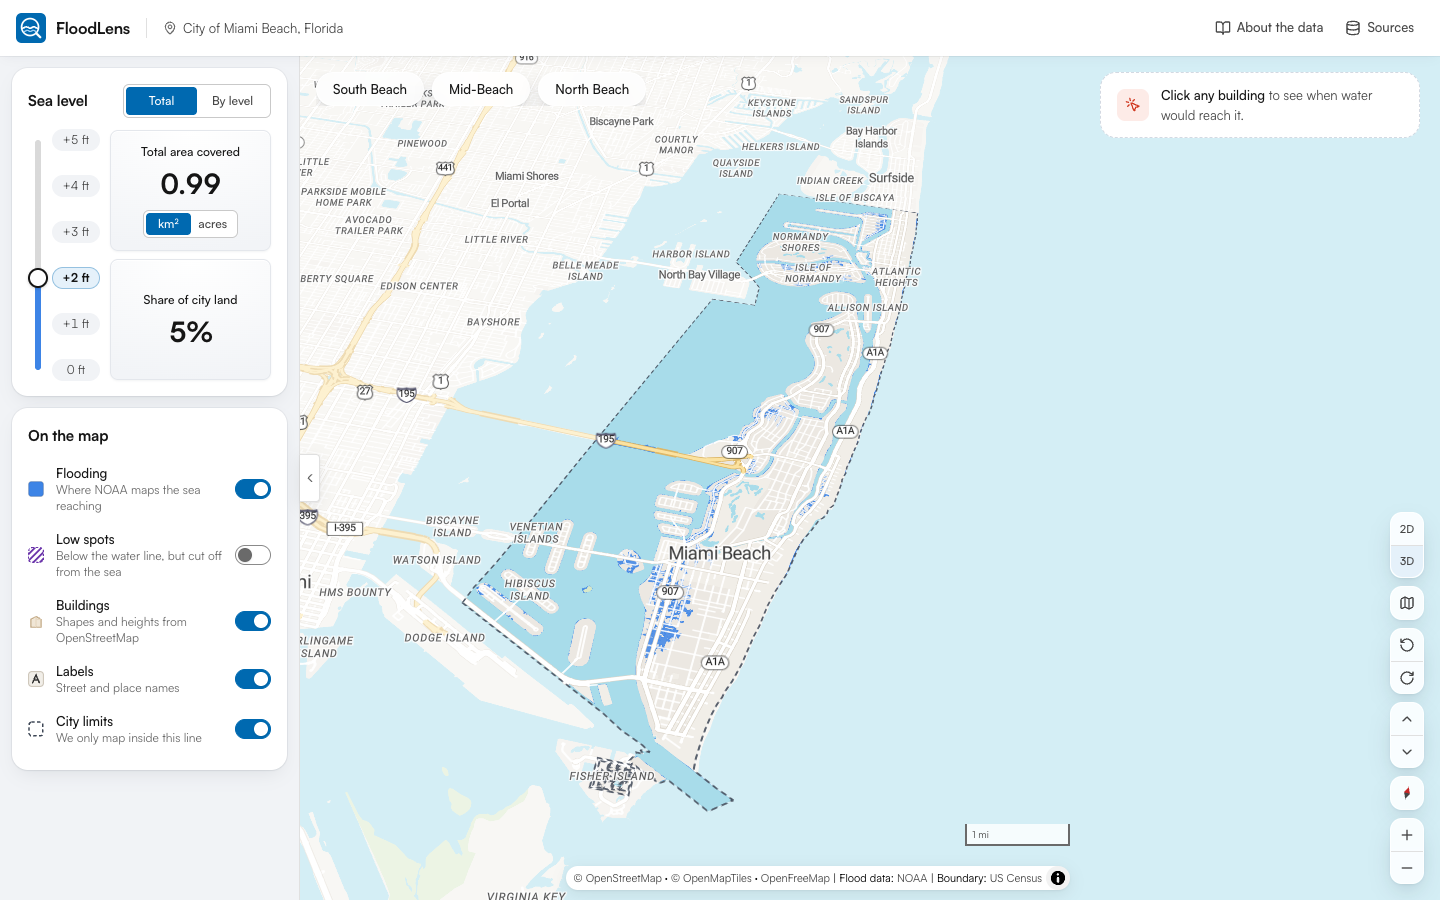
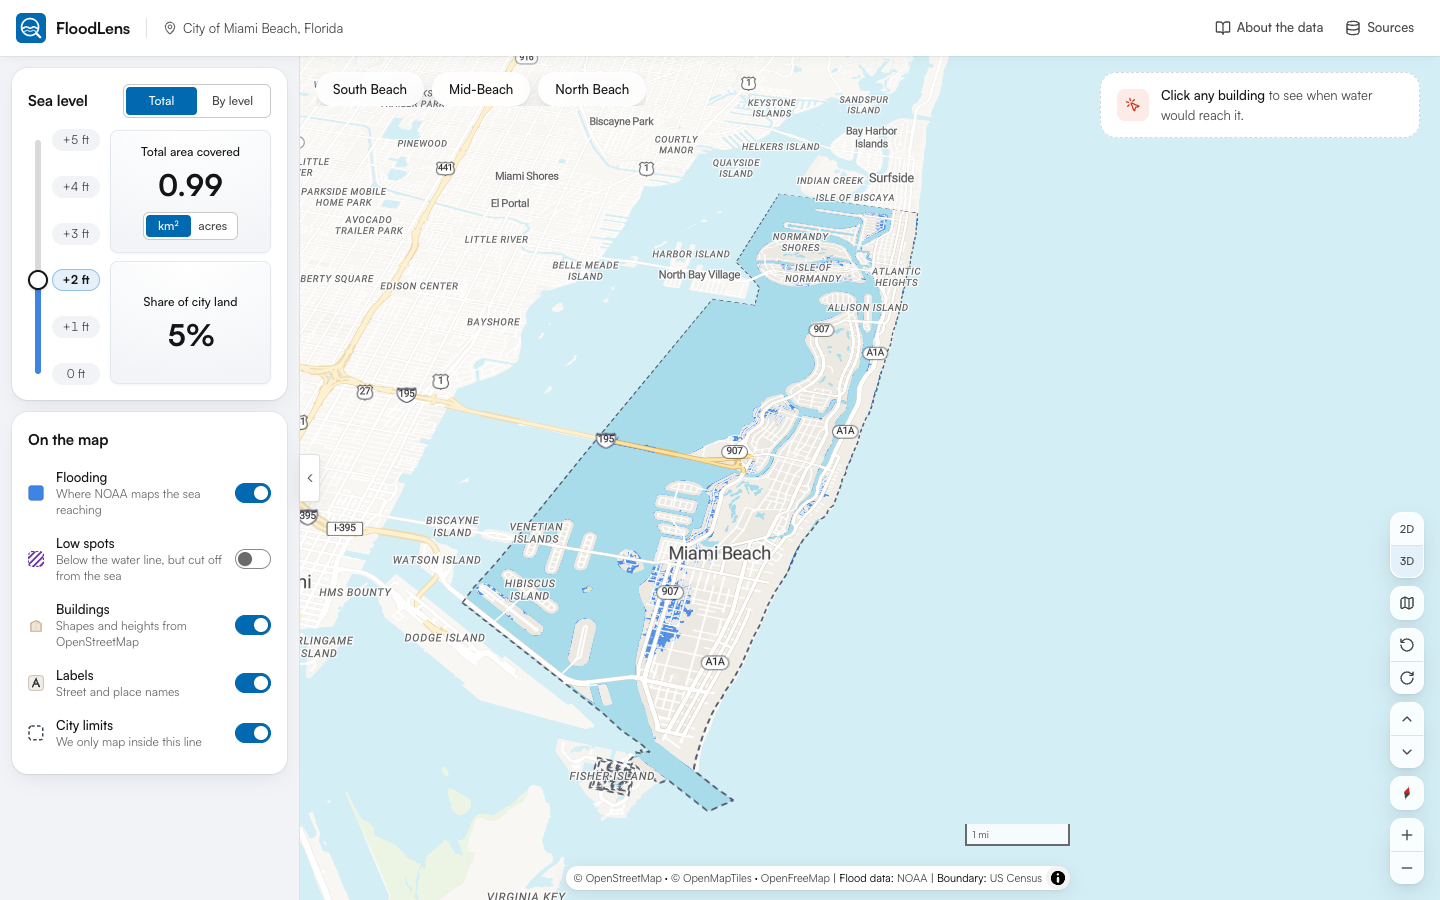
v0.45: Figures at 30 px
- The two sea-level figures at 30 px (28 before)
- Slider up to 254 px so the two boxes stay the same height
- Measured from 900 to 650 px tall: 30 px on every window 726 px
  or taller, 24 px only below; the panel fits everywhere

107 unit tests and 20 end-to-end tests pass.

diff --git a/src/components/controls/SubmergedArea.tsx b/src/components/controls/SubmergedArea.tsx
@@ -14,7 +14,7 @@ interface Props {
 }
 
 /**
- * One figure in a box, centred: label, then the number (28 px bold since v0.43; 24 px before), then
+ * One figure in a box, centred: label, then the number (30 px bold since v0.45; 28 px in v0.43–v0.44, 24 px before), then
  * anything under it. The box shares the "Soft light" surface (`.surface-soft`, v0.42) with the
  * place card's answer and facts, so the two panels read as one design (v0.41 had a pale blue
  * gradient; v0.39–v0.40 a flat grey-blue fill). These two boxes have a slightly heavier hairline,
@@ -28,7 +28,7 @@ function Figure({ label, value, children }: { label: string; value: string; chil
   return (
     <div className="flex flex-1 basis-0 flex-col items-center justify-center surface-soft rounded-lg border-[1.5px] px-2 py-3 text-center tiny:py-0.5">
       <p className="text-[12px] leading-4 font-medium whitespace-nowrap text-fg tiny:text-[11px] tiny:leading-[14px]">{label}</p>
-      <p className="mt-2 text-[28px] leading-8 font-bold tracking-[-0.03em] text-fg tabular tiny:mt-1 tiny:text-[24px] tiny:leading-7">{value}</p>
+      <p className="mt-2 text-[30px] leading-[34px] font-bold tracking-[-0.03em] text-fg tabular tiny:mt-1 tiny:text-[24px] tiny:leading-7">{value}</p>
       {children}
     </div>
   )

diff --git a/tests/e2e/app.spec.ts b/tests/e2e/app.spec.ts
@@ -341,10 +341,11 @@ test.describe('FloodLens — core flows', () => {
     await page.goto('/')
     await waitForMap(page)
     const sizes = () => figure(page).locator('p.tabular').evaluateAll((els) => els.map((e) => getComputedStyle(e).fontSize))
-    // v0.43 shrank them to 20 px on ordinary laptop windows (751–770 px tall): keep them at 28 px.
+    // v0.43 shrank them to 20 px on ordinary laptop windows (751–770 px tall): keep them at full
+    // size, 30 px since v0.45.
     for (const height of [900, 800, 760, 730]) {
       await page.setViewportSize({ width: 1440, height })
-      await expect.poll(sizes).toEqual(['28px', '28px'])
+      await expect.poll(sizes).toEqual(['30px', '30px'])
     }
     // Only on short windows do they compact, and only to 24 px; the panel still fits.
     await page.setViewportSize({ width: 1440, height: 650 })

diff --git a/src/components/controls/SubmergedArea.test.tsx b/src/components/controls/SubmergedArea.test.tsx
@@ -46,11 +46,11 @@ describe('<SubmergedArea>', () => {
     expect(boxes(container)).toEqual(['New area covered1.80km²acres', 'Share of city land18%'])
   })
 
-  it('puts each figure in its own centred Soft light box, the share as large as the area (v0.39, v0.42, v0.43)', () => {
+  it('puts each figure in its own centred Soft light box, the share as large as the area (v0.39, v0.42, v0.45)', () => {
     render(<Harness ft={2} mode="simple" />)
     for (const n of ['0.50', '5%']) {
       const value = screen.getByText(n)
-      expect(value).toHaveClass('text-[28px]', 'font-bold')
+      expect(value).toHaveClass('text-[30px]', 'font-bold')
       expect(value.parentElement).toHaveClass('text-center', 'surface-soft', 'basis-0', 'border-[1.5px]')
     }
   })

diff --git a/src/components/controls/ScenarioSelector.tsx b/src/components/controls/ScenarioSelector.tsx
@@ -21,7 +21,7 @@ interface Props {
  * panel adds (the low-spot area, v0.36). It never goes below the height of the two figure boxes
  * beside it on a short window.
  */
-const TRACK_H = 'clamp(144px, calc(100vh - var(--fl-panel-rest, 532px) - var(--fl-panel-extra, 0px)), 250px)'
+const TRACK_H = 'clamp(144px, calc(100vh - var(--fl-panel-rest, 532px) - var(--fl-panel-extra, 0px)), 254px)'
 const THUMB = 20
 
 /**

diff --git a/docs/DESIGN_DECISIONS.md b/docs/DESIGN_DECISIONS.md
@@ -28,7 +28,7 @@ background → land cover / land use → [NOAA extent · comparison · low-lying
   - Total: "Total area covered", everything covered up to the level beyond today's high tide.
   - By level: "New area covered", only what the level adds to the one below.
   - The owner's wording (v0.38). Before: "Underwater at +2 ft" / "Newly underwater at +2 ft" (v0.37), "Total submerged area" / "Additional submerged area" (v0.36). "Flooded" would sound like a forecast, so it isn't used.
-  - Two figures of equal weight (v0.38, 24 px bold each): the area, and "Share of city land". Each sits in its own box, centred (v0.39). Since v0.42 they use the "Soft light" surface (`.surface-soft`): white fading to a cool grey from the top (`#ffffff` → `#f2f4f7`), a hairline (`#e4e7ec`) and a faint inner highlight, shared with the place card's answer and facts boxes so the two panels read as one design. The owner found v0.41's pale blue gradient a recognisable "vibe-coded" cliché and picked Soft light over warm paper, cool slate and sea glass; v0.39–v0.40 had a flat grey-blue fill. The boxes are 8 px apart, the same height whenever there's room (each takes an equal share of the column), with 8 px from label to number and 10 px from number to switch. Their hairline is 1.5 px (v0.43), a touch heavier than the card's boxes, and the numbers are 28 px bold (v0.43; 24 px before, the owner's pick over 30 px, which outweighed the card's title). The slider grew from 168 to 224 px (v0.41) and then 250 px (v0.43) to keep the boxes equal. The owner found the bare figures of v0.38 read as "text thrown on a white box".
+  - Two figures of equal weight (v0.38, 24 px bold each): the area, and "Share of city land". Each sits in its own box, centred (v0.39). Since v0.42 they use the "Soft light" surface (`.surface-soft`): white fading to a cool grey from the top (`#ffffff` → `#f2f4f7`), a hairline (`#e4e7ec`) and a faint inner highlight, shared with the place card's answer and facts boxes so the two panels read as one design. The owner found v0.41's pale blue gradient a recognisable "vibe-coded" cliché and picked Soft light over warm paper, cool slate and sea glass; v0.39–v0.40 had a flat grey-blue fill. The boxes are 8 px apart, the same height whenever there's room (each takes an equal share of the column), with 8 px from label to number and 10 px from number to switch. Their hairline is 1.5 px (v0.43), a touch heavier than the card's boxes, and the numbers are 30 px bold (v0.45, the owner's call; 28 px in v0.43–v0.44, 24 px before). The slider grew from 168 to 224 px (v0.41), 250 px (v0.43) and 254 px (v0.45) to keep the boxes equal. The owner found the bare figures of v0.38 read as "text thrown on a white box".
   - At today's high tide the figures read "0 km²", "0 acres" and "0%" (v0.38). Nothing is ever left blank: v0.36–v0.37 showed "None yet".
   - The added figure is the difference between neighbouring totals (`submergedM2` in `lib/manifest.ts`), not the area of the difference polygons the map draws, so the added figures sum exactly to the total. The two differ by under 1.3% (slivers dropped in processing).
   - Both shares divide by the city's Census land area.
@@ -37,7 +37,7 @@ background → land cover / land use → [NOAA extent · comparison · low-lying
   - The low-spot area sits under the Low spots switch while that layer is on ("0.94 km² at +2 ft", in the chosen unit); it's cut off from the sea, so it isn't in the figures. On short windows the slider gives up 16 px for that line.
   - The level chips on the slider are pills with centred names (v0.41; 6 px corners in v0.40, square in v0.39).
   - Today's level is called "0 ft" everywhere (v0.40, the owner's pick from "Now", "0 ft", "Current"): on the slider, the legend, the place card's track and its answer. Every level reads as a number. "Today" was used before; "High tide" is the most exact but too wide for a chip.
-  - Short windows, in two steps (v0.44), so the panel fits without scrolling down to about 650 px: at 800 px tall or less (`short`) the cards' padding and the layer rows tighten; only at 725 px or less (`tiny`) do the figure boxes compact, to 24 px numbers, 11 px labels and tighter gaps. The figures stay 28 px on every window 726 px tall or more, and the two boxes stay the same height from 760 px up. v0.43 compacted the figures to 20 px at 770 px, which shrank them on ordinary laptop windows; the owner caught it.
+  - Short windows, in two steps (v0.44), so the panel fits without scrolling down to about 650 px: at 800 px tall or less (`short`) the cards' padding and the layer rows tighten; only at 725 px or less (`tiny`) do the figure boxes compact, to 24 px numbers, 11 px labels and tighter gaps. The figures stay full size (30 px since v0.45) on every window 726 px tall or more, and the two boxes stay the same height from 750 px up (765 px with the low-spot line). v0.43 compacted the figures to 20 px at 770 px, which shrank them on ordinary laptop windows; the owner caught it.
 - **Map controls at the screen's right edge, under the Insights card (v0.38)**, 16 px from the right and bottom edges, so the map itself stays clear. From the top: 2D over 3D, "Entire Miami Beach", then in 3D a pair to turn the view 30° left or right and a pair to tilt it 10° up or down, then the compass and zoom. Every button is the same 32 px square in the same white groups as zoom. On windows shorter than 760 px, where the column would reach a building's card, it splits into two columns: 2D/3D, turn and tilt on the left; home, compass and zoom on the right. History: v0.34 had 2D/3D and the house top right and a labelled "Rotate"/"Tilt" panel; v0.35–v0.36 had one column 88 px up with a round dial, which the owner found awkward; v0.37 had the column at the edge of the visible map, left of the card's column. Reviewers found that people didn't discover tilting and rotating, and some trackpads and mice can't do it (feedback #4, #8), so the moves stay as buttons. Every map button shows its name in a tooltip on hover and keyboard focus, opening just left of the column. The full-extent button shows a folded map, "the whole map" (v0.42, the owner's pick). Before: frame corners (v0.40–v0.41, and v0.4–v0.33) and a house (v0.34–v0.39, from review feedback #6), which the owner found misleading, since the button fits the whole city rather than going "home". The tooltip "Entire Miami Beach" says what it does.
 - **The compass stays (v0.40, the owner asked whether it's needed).** On a map you can turn, a compass is the standard way to show which way north is and to turn back to north-up (Google Maps, Apple Maps and MapLibre's own controls all have one). FloodLens needs it more than most: the 3D city view starts turned about 15° to fit the island, so without the needle nothing says north isn't up. Google and Apple hide it while the map faces north; here it would show at the start anyway, so it's always shown.
 - **Area chips** (top-left) fly to South Beach, Mid-Beach and North Beach and keep 2D/3D. They're frosted glass (88% white, blurred map behind, a soft shadow; v0.25; flat white with a 1 px border before). The chip you pick fills with the accent straight away (v0.27; a 2 px outline before), not when the camera arrives. Clicking it again, or "Show all", goes back to the whole city with no chip lit; panning by hand hands the highlight back to "nearest area when zoomed in" (by distance to its bookmark, since the areas have no official boundary). A 16 px map gutter is shared with the map controls and legend.

diff --git a/AGENTS.md b/AGENTS.md
@@ -11,7 +11,7 @@ FloodLens is a portfolio web app by a product designer. It shows real NOAA sea-l
 - **Live site:** https://floodlens-five.vercel.app
   - Note: floodlens.vercel.app is a different project that belongs to someone else.
 - **Repo:** https://github.com/srinivasmidhunsiddamsetty-hub/floodlens (public). The remote is `origin` and the branch is `main`.
-- **Current version:** v0.44 (tag `v0.44`): the sea-level figures stay 28 px on laptop windows (fixes v0.43's 20 px on 751–770 px windows).
+- **Current version:** v0.45 (tag `v0.45`): the two sea-level figures at 30 px (24 px only on windows ≤ 725 px tall).
 - **Test status at handoff:**
   - 107 unit and component tests in 13 files pass.
   - 20 end-to-end tests pass, at 1440×900 (some also check shorter windows, 650–800 px).
@@ -97,7 +97,7 @@ FloodLens is a portfolio web app by a product designer. It shows real NOAA sea-l
 | Fact values | 20 px semibold (v0.41; medium before) |
 | The answer ("+2 ft") | 24 px bold |
 | Sea level figure labels: "Total area covered" / "New area covered", "Share of city land" (v0.38) | 12 px medium, black, one line |
-| Sea level figures: the area and the share (equal weight) | 28 px bold (v0.43; 24 px only on windows ≤ 725 px tall), centred in a Soft light box (`.surface-soft`, v0.42) with a 1.5 px hairline (v0.43), boxes equal height; 8 px label → number, 10 px number → switch; 20 px on short windows |
+| Sea level figures: the area and the share (equal weight) | 30 px bold (v0.45; 28 px in v0.43–v0.44; 24 px only on windows ≤ 725 px tall), centred in a Soft light box (`.surface-soft`, v0.42) with a 1.5 px hairline (v0.43), boxes equal height; 8 px label → number, 10 px number → switch; 20 px on short windows |
 | Level chips on the slider | 12 px, centred pills (v0.41); light fill at rest, the chosen one accent-tinted and bold |
 | Icon tiles (v0.37) | 36 px for the place, 20 px for the coordinates, 28 px for each fact; pale tint behind the icon colour |
 
@@ -107,7 +107,7 @@ FloodLens is a portfolio web app by a product designer. It shows real NOAA sea-l
 - The Insights card floats over the right of the map with no panel behind it (v0.34, as in v0.27–v0.31). It is a fixed 360 px wide (v0.38; 380 in v0.37; no resize handle, no close tab: the owner wants it simply wide enough). The map's camera is padded by that width (`rightInset` in `MapView`).
 - The left panel collapses with its edge tab; Insights is always shown.
 - Insights (v0.36) holds only the selected building or spot's card, or the "Click any building" prompt. No city-wide figures there: the owner wants the right side to be only about the selection.
-- Sea level card (v0.36–v0.39): no big "+2 ft". The slider (up to 250 px tall) has clickable pill chips with centred names; today's is "0 ft". Beside it, two figures of equal weight, each centred in a Soft light box (`.surface-soft`: white to cool grey, hairline, inner highlight; v0.42), equal heights, 8 px apart: "Total area covered" (Total) or "New area covered" (By level), with a km² / acres switch under the number (one unit at a time, styled like Total / By level, remembered as `floodlens.areaUnit`), and "Share of city land" as a %. Today reads 0 and 0%. **Never leave a figure blank.** The low-spot area ("0.94 km² at +2 ft", in the chosen unit) sits under the Low spots switch while that layer is on.
+- Sea level card (v0.36–v0.39): no big "+2 ft". The slider (up to 254 px tall) has clickable pill chips with centred names; today's is "0 ft". Beside it, two figures of equal weight, each centred in a Soft light box (`.surface-soft`: white to cool grey, hairline, inner highlight; v0.42), equal heights, 8 px apart: "Total area covered" (Total) or "New area covered" (By level), with a km² / acres switch under the number (one unit at a time, styled like Total / By level, remembered as `floodlens.areaUnit`), and "Share of city land" as a %. Today reads 0 and 0%. **Never leave a figure blank.** The low-spot area ("0.94 km² at +2 ft", in the chosen unit) sits under the Low spots switch while that layer is on.
 - Short windows use two Tailwind variants (`@custom-variant` in `index.css`): `short` (800 px tall or less) tightens the card padding and layer rows; `tiny` (725 px or less) also compacts the figure boxes, never below 24 px numbers. **Check the figure size on a ~760 px window after any change here**: v0.43 shrank them to 20 px on ordinary laptops. `--fl-panel-rest` on the panel feeds the slider height (see `ScenarioSelector`).
 - Map controls (v0.38): at the **screen's right edge, under the Insights card**, 16 px from the right and bottom: 2D over 3D, "Entire Miami Beach" (folded-map icon, v0.42; frame corners in v0.40–v0.41; the owner found the house misleading), in 3D a turn pair and a tilt pair, the compass, zoom. All plain 32 px buttons; no dial (the owner disliked it). The compass stays: the city view starts turned, and the owner agreed it's needed. Below 760 px of window height it splits into two columns so it never meets the card. The scale bar and credit sit at the bottom right of the visible map. Every map button has a tooltip that opens left of the column.
 - The sea-level slider is upright: today at the bottom, +5 ft at the top. No play button and no (i) (both removed in v0.35).
@@ -255,6 +255,7 @@ Each change the owner accepts becomes the next version, v0.33 and so on.
 | v0.42 | "Soft light" surface for the figure boxes and the place card's answer and facts (facts now grouped in one box); vermilion selection again; folded-map icon; left panel 300 px |
 | v0.43 | The two sea-level figures at 28 px (from 24) in boxes with a 1.5 px hairline; slider up to 250 px so the boxes stay equal |
 | v0.44 | Fix: the figures stay 28 px on laptop windows (v0.43 compacted them to 20 px at ≤ 770 px); compaction only at ≤ 725 px and only to 24 px; panel tightening from 800 px keeps the boxes equal |
+| v0.45 | The two sea-level figures at 30 px (the owner's call); slider up to 254 px so the boxes stay equal |
 
 ---
 

diff --git a/CHANGELOG.md b/CHANGELOG.md
@@ -48,8 +48,19 @@ Every version is tagged in git (`git checkout v0.3`) and has a screenshot set in
 | v0.42 | 4 Nov 2026 | Soft light boxes, grouped place facts, vermilion selection, folded-map icon, wider left panel | [`docs/versions/v0.42/`](docs/versions/v0.42/) |
 | v0.43 | 4 Nov 2026 | Bigger sea-level figures, heavier box hairline | [`docs/versions/v0.43/`](docs/versions/v0.43/) |
 | v0.44 | 4 Nov 2026 | Fix: the figures stay 28 px on laptop windows | [`docs/versions/v0.44/`](docs/versions/v0.44/) |
+| v0.45 | 4 Nov 2026 | The sea-level figures at 30 px | [`docs/versions/v0.45/`](docs/versions/v0.45/) |
 
 ---
+
+## v0.45: Figures at 30 px (4 Nov 2026)
+
+- **The two sea-level figures are 30 px bold** (28 px before), at the owner's request.
+- **The scale grew to 254 px** (250 before) so the two boxes stay the same height.
+- **Measured at every window height from 900 to 650 px:**
+  - The figures are 30 px on every window 726 px tall or more, and 24 px only below that.
+  - The panel fits without scrolling everywhere.
+  - The boxes are equal from 750 px up (765 px with the low-spot line).
+- Tests: 107 unit/component tests and 20 end-to-end tests (the size test now expects 30 px).
 
 ## v0.44: The figures stay 28 px (4 Nov 2026)
 

diff --git a/docs/QUALITY_REPORT.md b/docs/QUALITY_REPORT.md
@@ -58,6 +58,7 @@ Status as of 27 Oct 2026 (v0.3). Every "passed" below was actually executed in t
 - A "Soft light" surface for the figure, answer and facts boxes; the place facts grouped in one box; a vermilion selection again; a folded-map icon; a 300 px left panel (v0.42).
 - The two sea-level figures at 28 px in boxes with a 1.5 px hairline, the scale extended to keep them equal (v0.43).
 - Fix: the figures stay 28 px on laptop windows; they compact only at 725 px tall or less, and only to 24 px; a test checks the size at 900–650 px (v0.44).
+- The two sea-level figures at 30 px, measured at every window height from 900 to 650 px (v0.45).
 - The "See it at +N ft" link removed; the answer box shortened from 277 × 140 to 277 × 104 px, with the answer on the label's row and text sizes unchanged (v0.15).
 - The answer box shortened again, to 277 × 92 px (v0.16).
 - Legend, About the data dialog, Data sources dialog (provenance, steps, validation table, file list).
